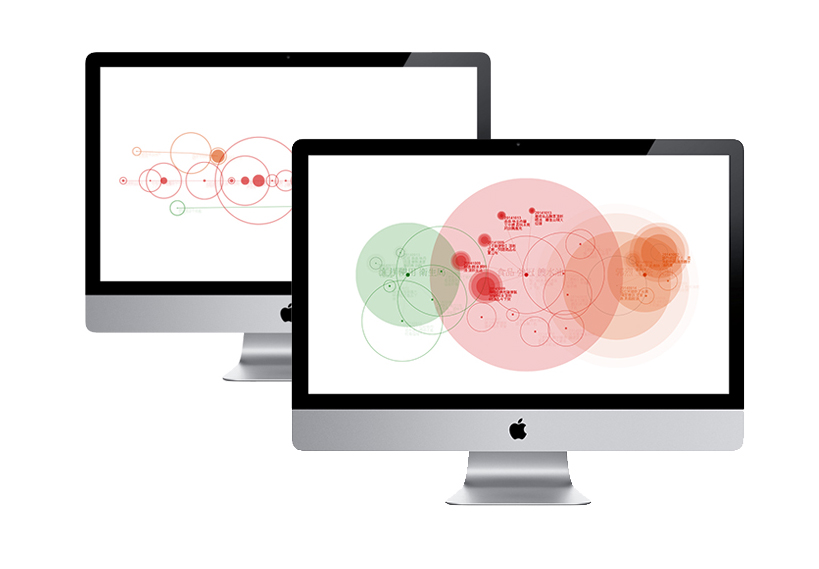
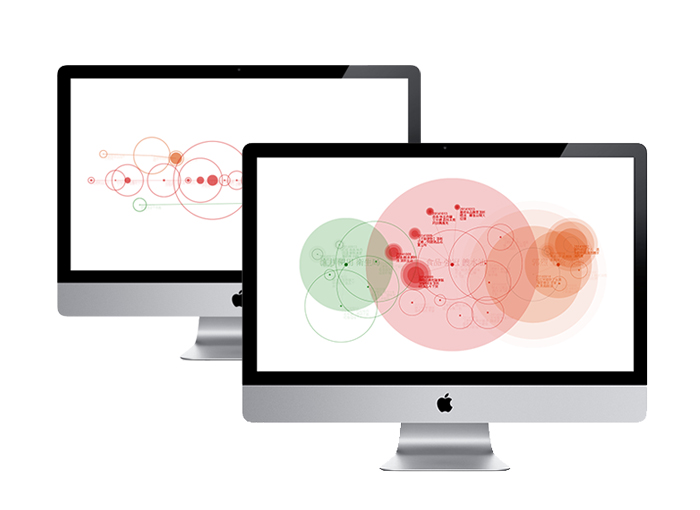
add pigs

Changed region(s): [[0.06, 0.0882, 0.93, 0.9412]]

diff --git a/public/portfolio/page10.html b/public/portfolio/page10.html
@@ -1,0 +1,74 @@
+<!DOCTYPE html>
+<html xmlns:og='http://ogp.me/ns#'>
+<head>
+<title>Yu Hsuan's Portfolio</title>
+  <meta charset="UTF-8">
+  <meta content="IE=edge,chrome=1" http-equiv="X-UA-Compatible">
+  <meta name="viewport" content="width=device-width, initial-scale=1, maximum-scale=1, user-scalable=no">
+  <title></title>
+  <meta content="" name="keywords">
+  <meta content="" name="description">
+  <meta content="" property="og:title">
+  <meta content="" property="og:site_name">
+  <meta content="/img/common/FacebookShare.jpg" property="og:image">
+  <meta content="" property="og:description">
+  <link href="/img/common/web-icon.png" rel="shortcut icon">
+  <link rel="stylesheet" href="/assets/css/normalize.css">
+  <link rel="stylesheet" href="https://maxcdn.bootstrapcdn.com/font-awesome/4.5.0/css/font-awesome.min.css">
+  <link rel="stylesheet" href="/assets/css/index.css">
+<link href="https://fonts.googleapis.com/css?family=Frank+Ruhl+Libre|Montserrat|Raleway" rel="stylesheet">
+</head>
+<body >
+<nav>
+  <div class="nav-left">
+    <a href="../index.html">
+      <div class="logo">YU HSUAN LIN</div>
+    </a>
+  </div>
+  <div class="nav-right">
+    <ul>
+      <li><a href="../index.html">Portfolio</a></li>
+      <li><a href="/assets/pdf/cv.pdf">Resume</a></li>
+    </ul>
+  </div>
+</nav>
+
+
+<div class="sec1" style="background: #feefd9;">
+  <div class="title">
+    <h3 class="portfolio-title">Rolling pigs</h3>
+    <hr class="short-center">
+    <p class="portfolio-sub-title">Akatsuki Hackathon / 1st Prize</p>
+  </div>
+
+  <div class="content">
+    <div class="img-block">
+      <div class="img" style="background-image:url('../assets/img/pig.png')"></div>
+      <div class="img" style="background-image:url('../assets/img/pig2.png')"></div>
+    </div>
+  </div>
+
+</div>
+<footer>
+  bunnieabc@gmail.com
+</footer>
+</body>
+<script src="/assets/js/jquery-2.1.4.min.js"></script>
+<script src="/assets/js/scrollreveal/scrollreveal.min.js"></script>
+<script src="/assets/js/font.js"></script>
+<script src="/assets/js/animateNumber.js"></script>
+<script src="/assets/js/headroom/headroom.js"></script>
+<script src="/assets/js/headroom/jQuery.headroom.js"></script>
+<script src="/assets/js/aboutScroll.js"></script>
+<script src="/assets/js/index.js"></script>
+<script>
+  (function(i,s,o,g,r,a,m){i['GoogleAnalyticsObject']=r;i[r]=i[r]||function(){
+  (i[r].q=i[r].q||[]).push(arguments)},i[r].l=1*new Date();a=s.createElement(o),
+  m=s.getElementsByTagName(o)[0];a.async=1;a.src=g;m.parentNode.insertBefore(a,m)
+  })(window,document,'script','https://www.google-analytics.com/analytics.js','ga');
+
+  ga('create', 'UA-90248764-1', 'auto');
+  ga('send', 'pageview');
+
+</script>
+</html>

diff --git a/public/index.html b/public/index.html
@@ -216,6 +216,7 @@
     <!-- project unit -->
     <!-- project unit -->
     <div class="project">
+      <a href="/portfolio/page10.html">
       <div class="project-pic" style="background-image:url('/assets/img/10.jpg')">
         <div class="pic-hover">
           <div class="pic-hover-content">
@@ -224,6 +225,7 @@
           </div>
         </div>
       </div>
+      </a>
       <div class="project-title">
         <h4>Rolling Pigs</h4>
       </div>
